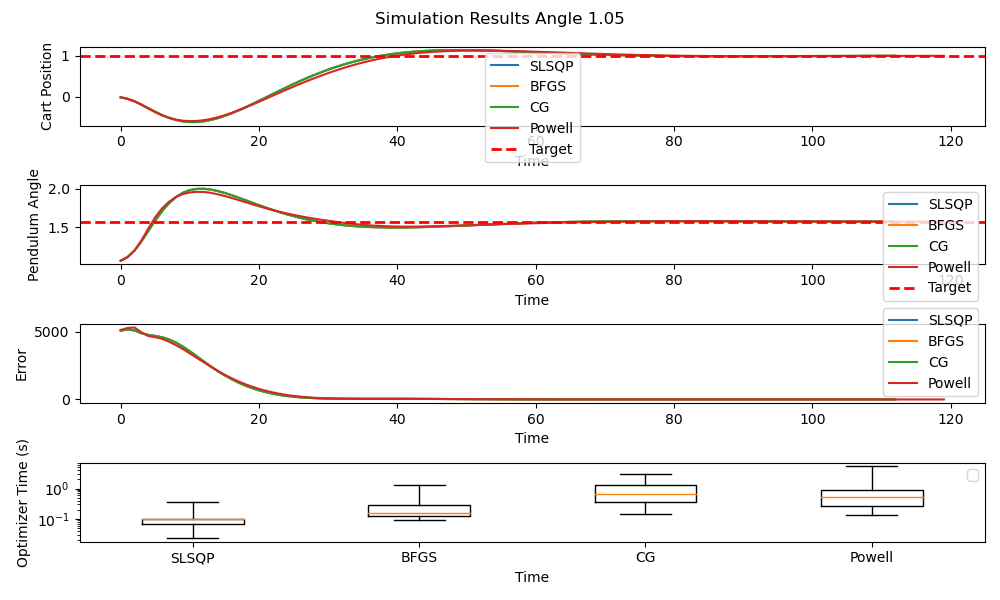
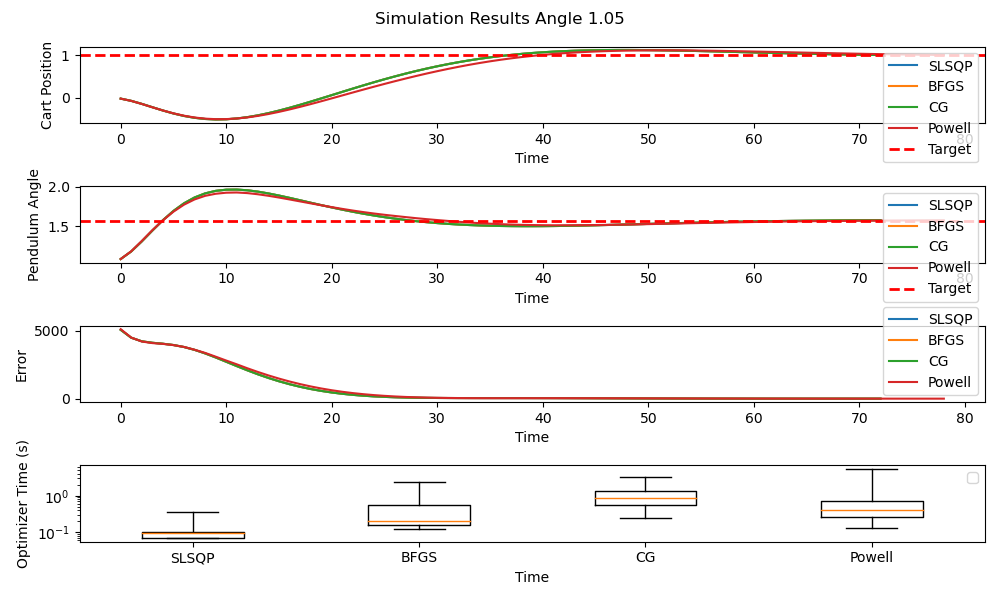
conduct casadi experiments

diff --git a/casadi/casadi_experiment.py b/casadi/casadi_experiment.py
@@ -12,7 +12,7 @@ from controlled_cart_and_pendulum import objective
 
 
 
-def experiment(solver_type, args):
+def experiment(solver_type, init_state, goal_state, args):
     sim_iter = 0
     state_logs = []
     error_logs = []
@@ -20,15 +20,19 @@ def experiment(solver_type, args):
         
     # Set simulation parameters
     dt = 0.05
-    total_time = 100.0
+    total_time = 10.0
     num_steps = int(total_time / dt)
 
     #  MPC Parameters
     P = 20  # Prediction horizon
 
-    # Goal angle
-    goal_theta = np.pi / 2.0
-    goal_x = 1.0
+    # Init state
+    init_x = init_state['x']
+    init_theta = init_state['theta']
+
+    # Goal state
+    goal_theta = goal_state['theta']
+    goal_x = goal_state['x']
 
     # Cost function weights
     eth_W = 100.0
@@ -42,8 +46,10 @@ def experiment(solver_type, args):
 
     # Constraints
     # for i in range(P):
-    #     opti.subject_to(U[i] <= 10)
-    #     opti.subject_to(U[i] >= -10)
+    #     opti.subject_to(U[i] <= 80)
+    #     opti.subject_to(U[i] >= -80)
+
+    clip_value = 80
 
     # Initialize the model and MPC optimizer
     pendulum_system = InvertedPendulum(m=0.1, M=5.0, L=0.3)
@@ -51,9 +57,9 @@ def experiment(solver_type, args):
     
     # Instantiate the model and visualization classes    
     viz = InvertedPendulumViz(x_start=-5, x_end=5, pendulum_len=1)
-    init_angle = np.pi / 3
+
     # Initial state
-    pendulum_system.state = pendulum_system.State(cart_position=0.0, pendulum_angle=init_angle)
+    pendulum_system.state = pendulum_system.State(cart_position=init_x, pendulum_angle=init_theta)
     init_state = pendulum_system.state
         
     # Initial guess for the control inputs
@@ -75,7 +81,6 @@ def experiment(solver_type, args):
     # MPC Control Loop
     for i in range(num_steps):
         sim_iter = i
-
         st = time.time()
         # Run the optimizer
         loss = objective(U, args_dict)
@@ -94,7 +99,14 @@ def experiment(solver_type, args):
 
         # Apply the first control input to the system
         optimal_controls = sol.value(U)
-        pendulum_system.inputs.force = optimal_controls[0]        
+        pendulum_system.inputs.force = optimal_controls[0]    
+
+        # Apply the first control input to the system
+        clipped_force = clip_value if optimal_controls[0] >= clip_value else optimal_controls[0]
+        clipped_force = -clip_value if optimal_controls[0] <= -clip_value else clipped_force
+        pendulum_system.inputs.force = clipped_force
+
+        # pendulum_system.inputs.force = optimal_controls[0]        
         pendulum_system.step_rk4(dt)
         
         # Update the initial state
@@ -104,7 +116,7 @@ def experiment(solver_type, args):
         state_logs.append(init_state)
         error_logs.append(sol.value(opti.f))
 
-        if np.abs(init_state.x - goal_x)/goal_x < 0.001 and np.abs(init_state.theta - goal_theta)/ goal_theta < 0.001:
+        if np.abs(init_state.x - goal_x) < 0.01 and np.abs(init_state.theta - goal_theta) < 0.01:
             break
         
         # Update the initial guess
@@ -169,8 +181,8 @@ def plot_results(results, title):
     fig, axs = plt.subplots(4, 1, figsize=(10, 6))
     fig.suptitle(title)
     times = []
-    f = open("results.txt", "w")
-
+    f = open(f"results_{title}.txt", "w")
+    
     for solver_type in results:
         state_logs, error_logs, time_logs, goal_x, goal_theta, sim_iter = results[solver_type]
         
@@ -229,11 +241,12 @@ if __name__ == "__main__":
 
     optimization_methods = ['ipopt']
     # optimization_methods = ['SLSQP']
-
+    init_state = {'theta': np.pi, 'x':0}
+    goal_state = {'theta': np.pi/2, 'x':1}
     results = {}
     for solver in optimization_methods:
-        result = experiment(solver, args)
+        result = experiment(solver, init_state, goal_state, args)
         results[solver] = result
-    plot_results(results, 'Simulation Results boxplot')
-
-        
+    
+    init_theta = init_state['theta']
+    plot_results(results, f'Simulation Results Angle {init_theta:.2f}')

diff --git a/experiment.py b/experiment.py
@@ -50,7 +50,7 @@ def experiment(solver_type, init_state, goal_state, args):
     viz = InvertedPendulumViz(x_start=-5, x_end=5, pendulum_len=1)
 
     # Initial state
-    pendulum_system.state = pendulum_system.State(cart_position=0.0, pendulum_angle=init_theta)
+    pendulum_system.state = pendulum_system.State(cart_position=init_x, pendulum_angle=init_theta)
     init_state = pendulum_system.state
         
     # Initial guess for the control inputs
@@ -101,7 +101,7 @@ def experiment(solver_type, init_state, goal_state, args):
         state_logs.append(init_state)
         error_logs.append(result.fun)
 
-        if np.abs(init_state.x - goal_x)/goal_x < 0.001 and np.abs(init_state.theta - goal_theta)/ goal_theta < 0.001:
+        if np.abs(init_state.x - goal_x) < 0.01 and np.abs(init_state.theta - goal_theta)/ goal_theta < 0.01:
             break
         
         # Update the initial guess
@@ -227,7 +227,7 @@ if __name__ == "__main__":
 
     optimization_methods = ['SLSQP', 'BFGS', 'CG', 'Powell']
     # optimization_methods = ['SLSQP']
-    init_state = {'theta': 3 * np.pi / 2, 'x':0}
+    init_state = {'theta': np.pi/3, 'x':0}
     goal_state = {'theta': np.pi/2, 'x':1}
     results = {}
     for solver in optimization_methods:
